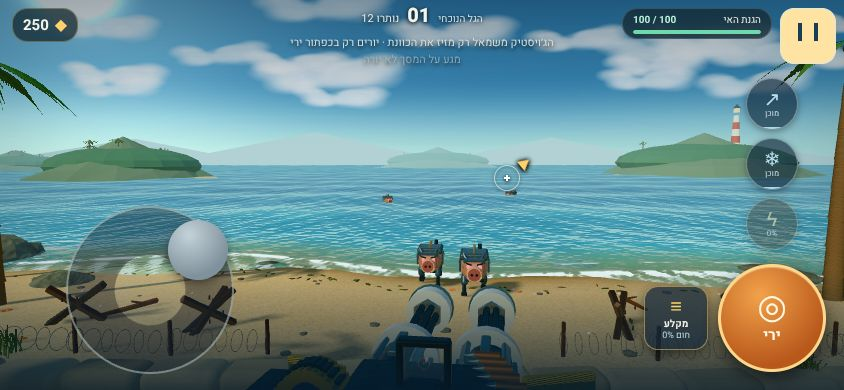
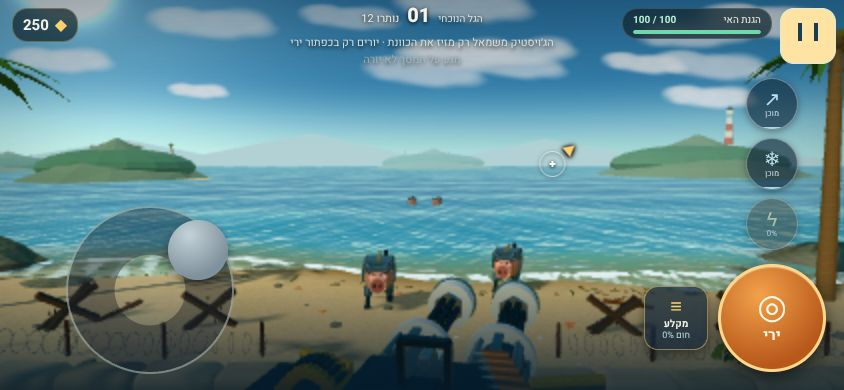
final-fix-fable: עבודה בתהליך (המשך 21)
Claude-Session: https://claude.ai/code/session_018LH5qTrdzhMgWeLGd6RUNk

diff --git a/workout/island/verification/final-fix-fable/REPORT-aliens.md b/workout/island/verification/final-fix-fable/REPORT-aliens.md
@@ -22,14 +22,24 @@
 ## מה שונה ב-v15
 | נושא | v14 (v20 באתר) | v15 |
 |---|---|---|
-| ירי רגיל (כפתור לחוץ) | וולקן 13.8/שנ' למשך 3.5 שנ', קירור 1.6 שנ', וחוזר חלילה | **תותח יציב 4 קליעים בשנייה** (`normalInterval` 0.25), כל קליע כבד (נזק 1.0 במקום 0.41): חייזר קל נופל ב-5-6 פגיעות מכוונות |
+| ירי רגיל (כפתור לחוץ) | וולקן 13.8/שנ' למשך 3.5 שנ', קירור 1.6 שנ', וחוזר חלילה | **תותח יציב 5.6 קליעים בשנייה** (`normalInterval` 0.18; בגרסה הראשונה של הסבב היה 4/שנ', ורועי ביקש "קצת יותר ירי"), כל קליע כבד (נזק 0.8 במקום 0.41): חייזר קל נופל ב-6 פגיעות מכוונות |
 | וולקן (BRRRT) | כל הזמן | **פרץ קצר בלבד**: 1.2 השניות הראשונות של לחיצה כשהקנים קרים (10/שנ', נזק 0.5 לקליע), ואז **קירור כפוי של 2 שניות** בלי ירי, ואז ירי יציב. הפרץ חוזר אחרי כ-1.5 שנ' בלי ירי. הצליל של הוולקן נשמע רק בפרץ; הירי היציב נשמע כרובה בודד (אותו צליל כמו רובה הבסיס של אי החזירים) |
 | מד חום | פס דק 4 פיקסלים | פס רחב וממוסגר ליד החללית: ירוק בפרץ, אדום מהבהב עם משולש אזהרה בקירור, ענבר יציב בירי רגיל, נעלם כשהקנים קרים (פרץ מוכן) |
-| ציוד, האנגר, שדרוגים, רמת כוח | מכפילים את הקצב עד תקרת 18/שנ' | מכפילים עד **רצפה של 0.2 שנ' = 5 בשנייה** (`minInterval`). בונוס "ירי מהיר" (זמני, 10 שנ'): עד 6.7 בשנייה (`rapidMinInterval` 0.15) |
+| ציוד, האנגר, שדרוגים, רמת כוח | מכפילים את הקצב עד תקרת 18/שנ' | מכפילים עד **רצפה של 0.167 שנ' = 6 בשנייה** (`minInterval`). בונוס "ירי מהיר" (זמני, 10 שנ'): עד 7.7 בשנייה (`rapidMinInterval` 0.13) |
 | תקרה גלובלית | אין | **דלי אסימונים בנקודת היצירה היחידה של קליעים (`fireShot`)**: לכל היותר 15 קליעים בשנייה (`capPerSecond`), 6 בבת אחת (`capBurst`, כדי שסבב מניפה + שני מלווים יעברו). שום ציוד, בונוס, מקלדת או ירי אוטומטי לא עובר דרך מקום אחר |
 | חיי חייזרים | לפי תפוקת הנזק של הספינה (v14) | אותו עיקרון, עם תקרת הקצב החדשה (1.25) ו-`gearExp` 1.15, כדי שציוד מלא לא יקצר את השלב |
 | כיוון התותחים | ישר מקצה הכנף (מחטיא חייזר שמעל החללית בטלפון) | מתכנסים לקו המרכז 300 יחידות קדימה (`convergeVx`) |
 | שעון השלב | 180 שנ' לשלב 1 (הפסד כשנגמר) | ×1.5 = 270 שנ' (`secondsMult`): פחות קליעים דורשים זמן, ילד איטי לא מפסיד לשעון |
+| תנועת החללית (`?alienMove=v20` מחזיר) | רמפה ליניארית של 0.15 שנ' למהירות קבועה 221, עצירה מיידית בשחרור, הטיה לפי המהירות | **`alien-move.mjs`**: האצה עם ריכוך למהירות 265 (90% אחרי כ-0.25 שנ'), היפוך כיוון מהיר, גלישה קצרה אחרי שחרור הסטיק, קפיץ מרוסן לגרירה (בלי אוברשוט), הטיה שעוקבת אחרי המהירות, רתיעה קטנה של החללית בכל ירייה (`recoilOffset`, ציור בלבד). מיקום משתנה רק דרך מהירות (בלי קפיצות). מודל הפגיעה לא נגע |
+
+## ההערה השלישית של רועי (ערב 11/11, על v20 החי): "חלליות, התנועה של החלליות צריכה להיות יותר דינמית וקצת יותר ירי. כמו כן הירי אולי קצת שונה אבל בסגנון שיש עכשיו."
+| הערה | מה נעשה | הוכחה | תוצאה |
+|---|---|---|---|
+| "קצת יותר ירי" | הירי היציב עלה מ-4 ל-5.6 בשנייה (בין ה-10 הישן ל-4), הפרץ, הקירור, הצליל והמראה נשארו ("בסגנון שיש עכשיו"); הנזק לקליע ירד ל-0.8 כדי ששלב 1 יישאר 90-130 שנ' | טבלת המספרים למטה, שורת "ירי יציב" | __RES3A__ |
+| "התנועה של החלליות צריכה להיות יותר דינמית" | `alien-move.mjs` (דגל `?alienMove=v20`): האצה עם ריכוך, גלישה, הטיה, רתיעה | טבלת התנועה למטה (נמדד דרך הסטיק האמיתי) | __RES3B__ |
+
+## תנועת החללית: לפני ואחרי (סטיק ימינה עד הסוף דרך CDP למשך שנייה, ואז שחרור; דגימה בכל פריים של המודל)
+__MOTION__
 
 ## מספרים: לפני ואחרי (דרך הכפתור האמיתי, Chromium עם מגע, 844×390, שעון מדומה של ההרתמה; הקצב = קליעים חלקי זמן המודל)
 | מדידה (6 שניות של כפתור לחוץ, אלא אם צוין) | v20 (`?alienV15=0`) | v15 | יעד |
